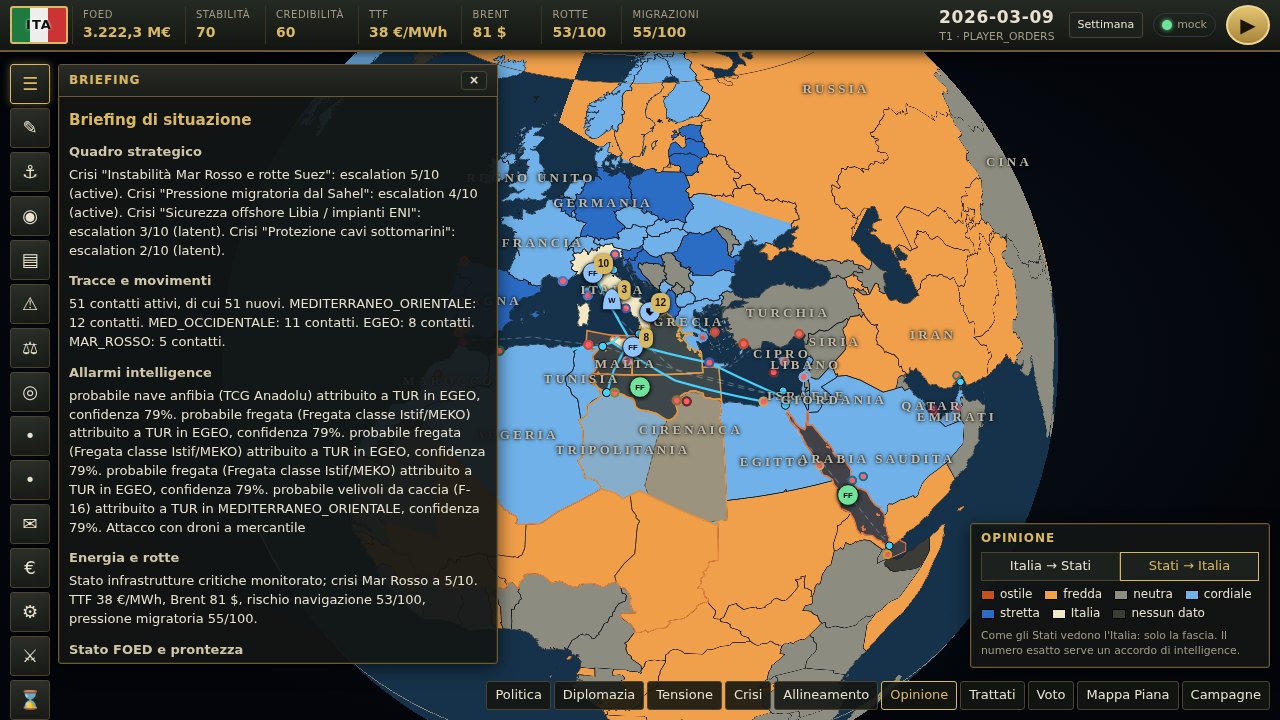
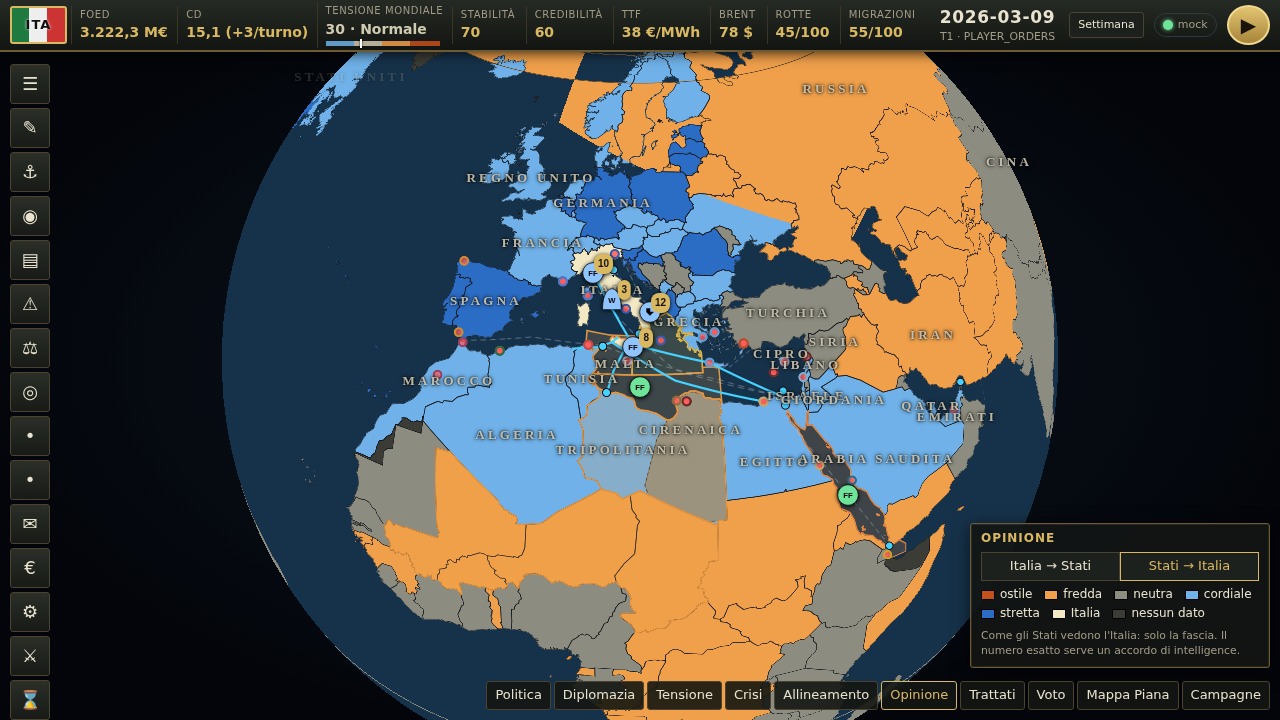
wargame: test corretto, e2e con la barra in alto, screenshot e PROGRESS
Perché: chiudere il settore con tutti i test verdi e la documentazione allineata.

Corretto:
- diplomazia-api.test.ts: l'elenco degli atti pubblici include «Situazione 2026»;
  il controllo «nessun valore esatto» è ora strutturale (opinion.in ha solo
  band e known) invece di cercare una cifra nel JSON.

Modificato:
- e2e: legge CD e tensione dalla barra in alto (il CD scende dopo il turno);
  gli screenshot aspettano che la mappa sia disegnata e si fanno senza pannelli
  aperti.
- docs/wargame/README.md: riga sulla barra in alto; screenshot rifatti.
- docs/wargame/PROGRESS.md: voce «Interfaccia diplomatica», decisioni e debiti.

Come provarlo: npm --prefix wargame-server test e npm run test:e2e:wargame

Claude-Session: https://claude.ai/code/session_01XntnZnLTTSo1j8QCbBjLkU

diff --git a/e2e-wargame/diplomazia.spec.ts b/e2e-wargame/diplomazia.spec.ts
@@ -1,7 +1,13 @@
 import { expect, test, type Page } from '@playwright/test';
 
 /** Con WG_SHOTS=<cartella> il test salva gli screenshot per la PR (scheda con i motivi, modalità Opinione, modalità Voto). */
-const shot = async (page: Page, name: string) => { if (process.env.WG_SHOTS) await page.screenshot({ path: `${process.env.WG_SHOTS}/${name}.png` }); };
+const shot = async (page: Page, name: string) => {
+  if (!process.env.WG_SHOTS) return;
+  // aspetta che la mappa abbia finito di disegnare (confini caricati) prima dello screenshot
+  await page.evaluate(() => new Promise<void>((done) => { const m = (window as unknown as { __wgMap: { loaded: () => boolean; once: (e: string, f: () => void) => void } }).__wgMap; if (m.loaded()) done(); else m.once('idle', () => done()); }));
+  await page.waitForTimeout(800);
+  await page.screenshot({ path: `${process.env.WG_SHOTS}/${name}.png` });
+};
 const num = (t: string) => Number(t.replace(',', '.'));
 
 async function newCampaign(page: Page, errors: string[]) {
@@ -33,7 +39,11 @@ test('scheda di uno Stato del mondo: motivi dell\'opinione, bozza, accettazione 
   await shot(page, 'scheda-paese');
 
   const left = async () => num((await card.getByText(/CD disponibili dopo la bozza/).innerText()).match(/([\d.,]+) CD disponibili/)![1]!);
+  // barra in alto: capitale diplomatico (valore e rendita a turno) e tensione mondiale con la fascia scritta
+  const topCd = async () => num((await page.locator('.wg-res', { has: page.locator('small', { hasText: /^CD$/ }) }).locator('b').innerText()).match(/^([\d.,]+) \(\+([\d.,]+)\/turno\)$/)![1]!);
+  await expect(page.locator('.wg-tension')).toContainText(/Tensione mondiale\s*\d+(,\d)? · (Distensione|Normale|Alta|Critica)/);
   const before = await left();
+  expect(await topCd()).toBeCloseTo(before, 1);
 
   // azioni dal catalogo con costo e ricarica; entrano nella bozza (niente invio diretto)
   await card.getByRole('button', { name: /^Migliorare le relazioni/ }).click();
@@ -57,6 +67,8 @@ test('scheda di uno Stato del mondo: motivi dell\'opinione, bozza, accettazione 
   await expect(card.getByText(/migliorare le relazioni in corso dal turno 1/)).toBeVisible();
   await expect(card.getByText(/CD disponibili dopo la bozza/)).toBeVisible();
   expect(await left()).toBeLessThan(before);
+  await expect.poll(topCd).toBeLessThan(before); // il CD in alto è sceso: spesi 5 CD (+1 del miglioramento in corso), la rendita ne rida meno
+  expect(await topCd()).toBeCloseTo(await left(), 1);
   await expect(card.locator('.wg-reasons li').filter({ hasText: 'Migliorare le relazioni' }).first()).toBeVisible();
   expect(errors).toEqual([]);
 });
@@ -67,6 +79,7 @@ test('modalità mappa Opinione, Trattati e Voto: cambio senza errori in console,
   type M = { getPaintProperty: (layer: string, prop: string) => unknown[]; getCanvas: () => HTMLCanvasElement };
   const colors = () => page.evaluate(() => ((window as unknown as { __wgMap: M }).__wgMap.getPaintProperty('countries-fill', 'fill-color') as unknown[]).length);
 
+  await page.getByRole('button', { name: 'Briefing', exact: true }).click(); // chiude il briefing: la mappa resta libera
   // un'unica espressione `match` per tutti gli Stati: ISO3 e colore a coppie, non un layer per paese
   const modes = page.locator('#wg-modes');
   await modes.getByRole('button', { name: 'opinione' }).click();
@@ -91,6 +104,7 @@ test('modalità mappa Opinione, Trattati e Voto: cambio senza errori in console,
   await page.getByRole('button', { name: 'Esegui turno' }).click();
   await expect(page.getByText(/^T2 ·/)).toBeVisible({ timeout: 60_000 });
 
+  await page.getByRole('button', { name: 'Console Ordini', exact: true }).click(); // chiude la Console: la mappa resta libera
   await modes.getByRole('button', { name: 'voto' }).click();
   await expect(page.locator('#wg-legend')).toContainText('Appello umanitario nel Mediterraneo');
   await expect(page.locator('#wg-legend')).toContainText(/approvata|respinta/);

diff --git a/wargame-server/test/diplomazia-api.test.ts b/wargame-server/test/diplomazia-api.test.ts
@@ -96,11 +96,14 @@ describe('vista diplomatica: scheda paese', () => {
     ));
     const c = country(s, 'EGY');
     expect(c.opinion.in.exact).toBeUndefined();
-    expect(c.opinion.in.known.map((k) => k.label).sort()).toEqual(['PER-NOI-DEF', 'PUBBLICO-ABC']);
+    // (più la «Situazione 2026» di partenza, pubblica e permanente: solo l'etichetta)
+    expect(c.opinion.in.known.map((k) => k.label).sort()).toEqual(['PER-NOI-DEF', 'PUBBLICO-ABC', 'Situazione 2026']);
     expect(Object.keys(c.opinion.in.known[0]!).sort()).toEqual(['label', 'turnsLeft']);
     const json = JSON.stringify(c);
     expect(json).not.toContain('RISERVATO-XYZ');
-    expect(json).not.toContain(String(opinionOf(s, 'EGY', 'ITA').value));
+    // dell'opinione di lui verso l'Italia la scheda dà solo la fascia e le etichette: nessun campo con il valore
+    expect(Object.keys(c.opinion.in).sort()).toEqual(['band', 'known']);
+    expect(c.opinion.in.band).toBe(Math.max(0, Math.min(4, [-50, -15, 15, 50].filter((t) => opinionOf(s, 'EGY', 'ITA').value >= t).length)));
   });
 
   it('con un accordo di intelligence la scheda dà il numero esatto e i motivi', () => {

diff --git a/docs/wargame/PROGRESS.md b/docs/wargame/PROGRESS.md
@@ -25,6 +25,7 @@
 - **Capitale diplomatico, trattati, accettazione e votazioni** (settore 3 di 6 della diplomazia): `engine/diplo-actions.ts` (catalogo unico con costo in CD, ricarica, prerequisiti ed effetti di 22 azioni; `GET /diplomacy/catalog`), CD per fazione con rendita aggregata in un evento per turno (`CAPITAL_CHANGED`, `engine/diplo-turn.ts`), azioni nuove nello schema unico (miglioramento delle relazioni con slot, scala richiamo → espulsione → rottura → ripristino, embarghi sulle armi, ultimatum con scadenza, mediazione, `RESOLUTION` con sedi UNSC/UNGA/EU_COUNCIL/NATO/ARAB_LEAGUE/AU), cinque nuovi tipi di trattato con effetti nel motore, `engine/acceptance.ts` (deterministica, con i motivi; dry-run in `/validate`; gli Stati del mondo rispondono nello stesso turno), `engine/institutions.ts` (regole di CdS/AG/UE/NATO dal registro, voto per Stato, AG tarata su marzo 2022: 143/6/44) e `engine/legitimacy.ts` (blocchi senza mandato); decisore a regole, Console Ordini (frasi in `names.json`, completamento e avvisi), mock, banco parser (18 frasi) e UI (CD e proposte nel pannello Diplomazia, costi e accettazione nella Console). Test: `diplomazia`, `accettazione`, `istituzioni`, `unga-calibration`, `legittimita`, `policy-diplomazia`, `diplomazia-motore`.
 - **IA mondiale: tutti gli Stati reagiscono, votano e trattano** (settore 4 di 6 della diplomazia): `engine/world-digest.ts` (digest pubblico del turno precedente, una volta sola; nebbia con `viewOf`), `engine/world-ai.ts` (`worldAiTurn`, livello C a regole: reazioni con un evento `INTERNATIONAL_REACTIONS` per atto grave, sanzioni di blocco con la coesione, agenda lenta sfalsata ogni 4 turni con tetto di 20 azioni a turno, lettere al giocatore per risposta o innesco forte), `engine/world-apply.ts` (esecuzione in aggiudicazione), un file di decisioni per turno (`decisions/turn-N/_world.json`) con controllo in replay, tempo per fase (`timings.jsonl`, `GET /timings`), livelli A e B che leggono l'opinione (soglie `allyOpinion`/`adversaryOpinion`/`closeAllyOpinion`), isolamento internazionale e punto d'ingresso della direttiva (schema `Directive`, `PolicyInput.directive`, `AgentDecision.directive`). Test: `ia-mondiale`, `policy-mondo`.
 - **Agenti LLM a budget: strateghi, cancellerie e profili di provider** (settore 5 di 6 della diplomazia): `agents/budget.ts` (tutte le chiamate LLM passano di qui: `LLM_BUDGET_CALLS` per turno, coda a priorità P0–P5 con ammissione a gruppi e riserve dichiarate dal motore, finestre scorrevoli `LLM_RPM`/`LLM_RPD` con orologio iniettabile, ripiego sul modello successivo su 429 con `Retry-After`, cache per `promptHash` nella campagna, contatori per turno e per giorno in `llm-usage.json` e in `GET /llm/status`); ogni ruolo ha il suo testo deterministico quando manca il budget (lettera-modello, notizie dai fatti, briefing dai fatti, frasi-modello, nessuna direttiva) e il gioco funziona con zero chiamate; profili di provider (`agents/profiles.ts`, `llm-profiles/{locale,gemini,omniroute}.json`, `LLM_PROFILE`/`LLM_PROFILE_JSON`: per ruolo un elenco ordinato di endpoint con `extraBody` e `rpm`, nessuna chiave nei file); ruolo `strategist` (`engine/directive.ts`: una grande potenza per turno a rotazione, contesto ≤ 1.200 token dalla sola Knowledge, direttiva `Directive` **limitata dal motore** e applicata in `policy.ts` e `world-ai.ts`, registro `directives/turn-N/F.json`, replay dalla versione limitata); ruolo `chancery` (`engine/chancery.ts`: per ogni atto grave UNA chiamata scrive le frasi di 6–8 Stati scelti dal motore con la posizione scelta dal motore; numeri e nomi di persona controllati; frasi in `_world.json`, nell'evento `INTERNATIONAL_REACTIONS` e nelle notizie); `bench:models` con i casi `strategist` e `chancery` e `--profile`; playtest con budget, direttive e cancellerie. Playtest mock 10 turni con `LLM_BUDGET_CALLS=10`: 0 problemi, 9,3 chiamate ammesse a turno (massimo 10), ≈ 5.900 token in e 1.900 out a turno; con `LLM_BUDGET_CALLS=0`: 0 problemi, 0 chiamate; replay 10 turni IDENTICO in `rules` e in `llm`. 346 test backend verdi (nuovi: `budget`, `limitatore`, `profili`, `strategist`, `cancellerie`, `stato-modelli`).
+- **Interfaccia diplomatica in stile grand strategy** (settore 6 di 6 della diplomazia): `engine/diplo-view.ts` (viste pure dal punto di vista del giocatore: panoramica, scheda paese, voti, `acceptanceFor`) e tre rotte di sola lettura (`GET /campaigns/:id/diplomacy/overview`, `/diplomacy/country/:actor`, `/institutions/votes?turn=`; 6–13 KB e 22–36 ms); nebbia §5.6 (l'opinione degli altri verso l'Italia solo a fasce, il numero e i motivi con un accordo di intelligence, mai le coppie tra terzi); modalità mappa **Opinione** (scala divergente blu–arancio da variabili CSS, direzione *Italia → Stati* / *Stati → Italia*), **Trattati** (linee ad arco per categoria e tratto) e **Voto** (sì/no/astenuto/assente per Stato) con un'unica espressione `match` per i 197 Stati; **scheda paese** unica per tutti gli Stati (motivi in stile HOI4 con i turni che mancano, trattati e appartenenze, azioni con costo in CD e ricarica spente con il motivo, «Accetterebbe: sì/no (punteggio)» per ogni proposta, dati con ≈ se stimati; le azioni vanno nella bozza, nessun invio diretto); pannelli **Stati** (ricerca, tastiera), **Istituzioni** («Proponi risoluzione» → bozza con `RESOLUTION`), **Reazioni internazionali** (frasi delle cancellerie o numeri del motore) e Diplomazia (slot e ultimatum con il conto alla rovescia); barra in alto con CD (valore e rendita) e tensione mondiale (4 fasce, cause nel suggerimento). Bundle JS 1.971,74 → 1.994,96 kB (gzip 505,42 → 513,32), CSS 93,52 → 97,10 kB, nessuna nuova dipendenza. 364 test backend verdi (nuovo: `diplomazia-api`, 18 test); e2e 3/3 (nuovo: `diplomazia.spec.ts`, con controllo degli errori in console); playtest mock 5 turni: 0 problemi.
 
 ## Decisioni
 - Ogni mutazione dello stato è un `GameEvent` applicato da `engine/reducer.ts`: `state(N) = snapshot(N-1) + events(N)` (test dedicato).
@@ -57,6 +58,7 @@
 - Agenti a budget (settore 11): `LLM_BUDGET_CALLS` vale 10 nelle campagne a regole e **nessun tetto in modalità `llm`** (dove la decisione delle fazioni è il turno: con 10 le fazioni cadrebbero quasi tutte in dottrina) se non è impostato esplicitamente; una richiesta con i suoi ripieghi di modello conta 1 e un repair è una richiesta a parte; priorità: le decisioni delle fazioni in modalità `llm` e le lettere con il giocatore P1, l'analista intel e il debriefing con il briefing P0, la riflessione con le lettere tra IA P5; `LlmAgents` senza gestore esplicito resta senza tetto e senza cache (test e strumenti), il server e `sim` lo costruiscono dall'ambiente; il limite al minuto aspetta (fino a `LLM_MAX_WAIT_MS`) ma un modello in pausa dopo un 429 non si aspetta mai; i contatori del limite al giorno non sopravvivono al riavvio del server (quelli per giorno del registro sì); il ramo di una campagna riparte con il budget del turno a zero; la cache non include il modello nella chiave (come da spec: `promptHash` di sistema + utente) e scarta le risposte che il validatore ha bocciato; il profilo vince sul generico `LLM_MODEL`, `LLM_MODEL_<RUOLO>` vince sul profilo; le campagne vecchie senza `strategist`/`chancery` usano `faction_major` con i tetti del ruolo.
 - Direttive (settore 11): le potenze sono USA, CHN, RUS più le fazioni con `tier: 'A'` che decidono a regole (nel `world.json` di `med-2026` nessuna è marcata); periodo di rotazione = numero di potenze tra 3 e 6 (con più di 6 ne tocca più d'una a turno); un bersaglio esiste se è una fazione non blocco o uno Stato del registro senza fazione (ma `policy.ts` agisce solo sulle fazioni: per gli Stati senza fazione l'effetto passa da `world-ai.ts`, +25 per punto di peso come partner di chi lo corteggia); i tipi di accordo cercabili sono 7 (niente alleanze formali, basi, vendite di armi, segreti); la somma dei pesi è limitata a 2; l'orizzonte conta dal turno in cui è data (turno N → valida fino a N + orizzonte − 1); un repair solo se non resta nessuna voce valida (i valori fuori scala non bocciano la risposta: li limita il motore e li scrive nelle note); la versione limitata è idempotente, così il replay la rilegge senza ricalcolare.
 - Cancellerie (settore 11): al massimo 4 atti a turno (i più gravi) e 8 Stati per atto; «vicini» = stessa sottoregione del registro (non ci sono i confini) e «alleati» = stessa alleanza di difesa o trattato di difesa attivo; il controllo dei nomi di persona è euristico (una carica seguita da una parola maiuscola sconosciuta o due parole maiuscole sconosciute di fila); una frase non valida non fa ripetere la chiamata: vale la frase-modello di quella posizione (il repair solo se nessuna frase è utilizzabile); le notizie delle cancellerie le aggiunge il motore a fine turno (campo `kind: 'chancery'` su `NewsItem`) e il replay non le riprende dal registro; la chiamata delle cancellerie viene prima delle lettere così la loro priorità (P4) batte quella delle lettere tra IA (P5).
+- Interfaccia diplomatica (settore 12): i rami partono da `claude/agenti-a-budget` perché le PR dei settori 08–11 non sono ancora unite a `main`; l'interruttore «da/verso» dell'Opinione è relativo all'Italia (Italia → Stati, Stati → Italia) e vale per tutta la mappa, mentre il paese selezionato ha i due sensi nella scheda; la mappa colora per **fasce** (i valori e i motivi sono nella scheda); l'accettazione mostrata è una **stima** (l'opinione del destinatario verso l'Italia vale il centro della sua fascia e i motivi con nomi di terzi perdono il nome) e lo stesso vale per il dry-run di `/validate` (`exact: false`), mentre il motore usa `acceptance()` esatta; con un accordo di intelligence attivo la stima è esatta; la scheda propone 11 tipi di trattato e 15 azioni senza dati aggiuntivi (`ENERGY_DEAL` e `AID` per importi restano alla Console Ordini, `AID` ha il pulsante rapido «Aiuto 50 M€» per le fazioni); le azioni «di revoca» senza nulla da revocare restano visibili e spente con il motivo; i centri degli Stati per le linee dei trattati si ricavano dal geojson dei confini (centro del riquadro del poligono maggiore, o il punto di etichetta delle fazioni); le reazioni internazionali si leggono dagli eventi pubblici `INTERNATIONAL_REACTIONS` degli ultimi 4 turni (nessuna rotta nuova); i voti dei turni chiusi si tengono in memoria nel server; `wargame.html` ha un'icona vuota (niente richiesta a `/favicon.ico`, che dava un 404 in console).
 
 ## Debiti tecnici
 - Console ordini: i verbi e le parole chiave dei controlli e dei completamenti (`parse-review.ts`) sono elenchi italiani a mano (niente analisi grammaticale): «porta» come sostantivo o «manda un messaggio» con una zona nominata possono dare un avviso in più; la negazione è solo «non»/«mai» (un «non» in un'altra parte della frase blocca anche il completamento); gli alias di unità con parole comuni («Carabiniere», «Alpino») si riconoscono anche in minuscolo. Il banco «parser» con qwen3.5:4b/9b reali va rifatto dopo le unità nominate (serve il PC con Ollama): il mock riproduce l'errore visto, non il modello. Il caso peggiore dello schema del parser presume ~2,5 caratteri per token (tokenizer non misurato); `maxProperties` potrebbe essere ignorato dalla grammatica di Ollama. «Haftar» resta solo come alias di riconoscimento di LBY_LNA (il nome della fazione non lo contiene più).
@@ -70,4 +72,5 @@
 - Opinione: `PARAMS.opinion.modifiers` ha i valori di riferimento del §5.2 ma `relate()` usa quelli passati dai chiamanti (taratura precedente): da riunire con `balance` quando arrivano le azioni del settore 09 (costo, ricarica). I modificatori restano un array filtrato per coppia (O(M) per `opinionOf`): va bene con 28 fazioni (turno ≈ +5%), da indicizzare con 197 Stati (settore 10). Il ritorno della tensione al fondo ha ridotto crisi e ingaggi (crisi a 10/10 per partita 0,1 → 0,2 ma media per crisi più bassa, ingaggi 10,8 → 8,8): da ritarare con partite vere.
 - Diplomazia (settore 09): i pesi di acceptance e del voto sono stime ragionate tarate su pochi riferimenti (marzo 2022 per l'AG; nessun riferimento per UE/NATO/Lega Araba/UA); il decisore a regole non usa mai `RESOLUTION` di sua iniziativa (solo come risposta di una linea rossa) né `MEDIATE`, `EXPEL_DIPLOMATS`, `BREAK_RELATIONS`, `ARMS_EMBARGO` e `PROPOSE_AGREEMENT` oltre alla tregua: le userà l'IA mondiale (settore 10); `MEDIATE` non si completa dalla Console (servono crisi e due parti); gli Stati del mondo non hanno CD né agenda fino al settore 10; il CD medio sale senza saturare in 20 turni (10 → 40: le regole spendono poco).
 - IA mondiale (settore 10): le sanzioni di blocco e le lettere degli Stati non compaiono nel banco (nessuna risoluzione con sanzioni né lettere del giocatore a Stati nei 20 turni del giocatore moderato): sono coperte dai test; l'agenda ha solo quattro tipi di azione (niente `PROPOSE_AGREEMENT` di altro tipo, `MEDIATE`, `RESOLUTION`), gli accordi commerciali tra Stati si accumulano (≈ 225 in 20 turni, senza scadenza) e non hanno effetti economici; le reazioni non hanno un testo (le frasi delle cancellerie sono per il settore 11); le fasce `allyOpinion` ecc. sono tarate solo su `med-2026`.
-- Agenti a budget (settore 11): i modelli reali non sono stati provati qui (nessuna chiave né rete verso Google/Ollama): `strategist`, `chancery` e i profili `gemini`/`omniroute` sono provati con il mock, con server HTTP finti (429 con `Retry-After`, elenco `/models` alla Google) e con i test; `bench:models --profile` e `llm:check` vanno rifatti con un provider vero, e va verificato che l'endpoint OpenAI-compatibile di Google accetti lo schema JSON del gioco (il client ripiega da solo su `json_object`). I limiti del piano gratuito di Gemini cambiano e le fonti non concordano (10–15 richieste al minuto, da 250 a 1.500 al giorno): gli `rpm` del profilo e `LLM_RPD` sono stime da verificare in AI Studio. I token in uscita del mock sono più corti di quelli veri: la stima dei token per turno è un minimo. Il limite al giorno si azzera al riavvio. Le direttive di USA, CHN e RUS spingono poche mosse (il decisore a regole propone azioni verso le fazioni solo per atti subiti, crisi e accordi): l'effetto più visibile è sull'agenda degli Stati corteggiati e sugli accordi cercati; da ritarare con partite vere. La UI non mostra ancora le frasi delle cancellerie in un pannello «Reazioni internazionali» (sono nelle notizie e nel registro degli eventi; il pannello è del settore 12).
+- Agenti a budget (settore 11): i modelli reali non sono stati provati qui (nessuna chiave né rete verso Google/Ollama): `strategist`, `chancery` e i profili `gemini`/`omniroute` sono provati con il mock, con server HTTP finti (429 con `Retry-After`, elenco `/models` alla Google) e con i test; `bench:models --profile` e `llm:check` vanno rifatti con un provider vero, e va verificato che l'endpoint OpenAI-compatibile di Google accetti lo schema JSON del gioco (il client ripiega da solo su `json_object`). I limiti del piano gratuito di Gemini cambiano e le fonti non concordano (10–15 richieste al minuto, da 250 a 1.500 al giorno): gli `rpm` del profilo e `LLM_RPD` sono stime da verificare in AI Studio. I token in uscita del mock sono più corti di quelli veri: la stima dei token per turno è un minimo. Il limite al giorno si azzera al riavvio. Le direttive di USA, CHN e RUS spingono poche mosse (il decisore a regole propone azioni verso le fazioni solo per atti subiti, crisi e accordi): l'effetto più visibile è sull'agenda degli Stati corteggiati e sugli accordi cercati; da ritarare con partite vere. Le frasi delle cancellerie ora si leggono nel pannello «Reazioni internazionali» (settore 12).
+- Interfaccia diplomatica (settore 12): la barra in alto, con CD e tensione, è piena a 1280 px (sotto gli 800 px restano le prime tre risorse); la scheda paese su schermi bassi con la legenda accanto scorre; la modalità «Trattati» disegna solo i trattati visibili di un paese (le coppie tra terzi non riservate), con tetto a 12 per scheda, e per l'Italia solo quelli suoi; le linee non hanno un tooltip per tastiera (l'elenco dei trattati è nella scheda); le bandiere sono emoji e su Windows non si vedono (restano le due lettere); l'e2e dei voti usa l'Assemblea generale (il Consiglio di sicurezza non è provato nel browser); le lettere ai capi di Stato si compongono ancora solo verso le fazioni (il pannello Lettere ne elenca solo quelle, e il pulsante «Lettera» della scheda compare solo per loro), anche se il motore accetta `LETTER` verso ogni Stato.

diff --git a/docs/wargame/README.md b/docs/wargame/README.md
@@ -42,6 +42,7 @@ Ogni numero ha i suoi motivi e ogni azione mostra costo e probabilità di riusci
 
 - **Pannello Istituzioni**: votazioni dell'ultimo turno e passate con conteggi e regola; *Mostra il voto sulla mappa* con un clic; *Proponi risoluzione* mette l'azione `RESOLUTION` nella bozza (costo della sede: UNSC 8, UNGA 6, UE 5, NATO 5, Lega Araba 4, UA 4).
 - **Pannello Reazioni internazionali**: per ogni atto grave chi condanna, chi sostiene, chi tace, con le frasi delle cancellerie se ci sono; senza eventi dice «Nessuna reazione registrata».
+- **Barra in alto**: il capitale diplomatico (valore e rendita a turno) e la tensione mondiale 0–100 con le quattro fasce del §6 (distensione, normale, alta, critica) scritte accanto al valore; il suggerimento (anche con la tastiera) elenca gli effetti di ogni fascia e le cause dell'ultimo turno.
 - API di sola lettura (dalla Knowledge del giocatore): `GET /campaigns/:id/diplomacy/overview`, `GET /campaigns/:id/diplomacy/country/:actor` (id di fazione o ISO3), `GET /campaigns/:id/institutions/votes[?turn=]`. Le fasce bastano per la mappa: niente elenchi da 197 righe con testi lunghi.
 
 ## Con modelli reali (OmniRoute)
